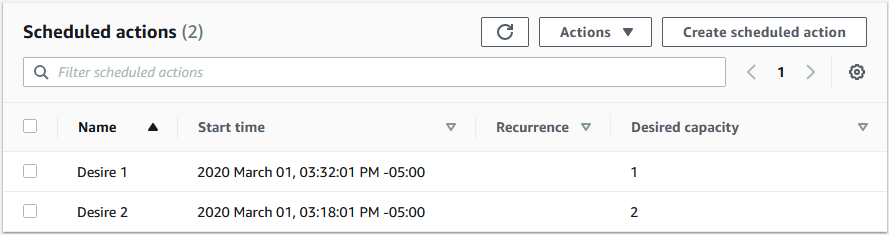
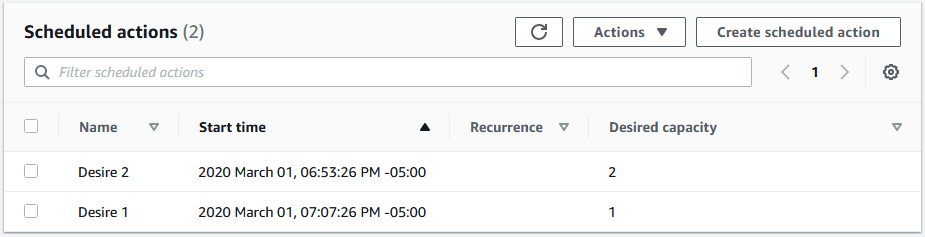
Refactor for SNS

diff --git a/content/posts/lambda-update-ami.md b/content/posts/lambda-update-ami.md
@@ -7,17 +7,15 @@ imageFluid:  "../images/vinyl-jukebox.jpg"
 tags: ["AWS", "DevOps", "Python"]
 ---
 
-Are you tired of manually updating your EC2 launch templates and auto-scaling groups?
+Tired of manually updating your EC2 launch templates and auto-scaling groups?
 
-I run all of my applications in containers with ECS. If you're familiar with ECS, you know that AWS frequently updates it's ECS-Optimized AMI. The updates contain all kinds of goodies, such as new versions of the ECS Agent, kernel updates, security patches, and other miscellaneous fixes. I want to update all the things, so how do we accomplish this with automation? One way is with Python and AWS Lambda!
+I run all of my applications in containers on Amazon's Elastic Container Service (ECS). If you're familiar with ECS, you know that AWS frequently updates it's ECS-Optimized AMI for EC2. The updates contain all kinds of goodies, such as new versions of the ECS Agent, kernel updates, security patches, and other miscellaneous fixes. Since we want to update all the things, how do we accomplish it with automation? One way is with Python and AWS Lambda!
 
 ## IAM role for Lambda
 
-As usual, my first step when working with Lambda is to create an IAM policy and IAM role. If I don't perform this step at the beginning, I'll inevitably find that my tests don't work and I'll start second-guessing my code. Approaching the problem with a security-first mindset also helps me think about how the pieces fit together.
+As usual, my first step when working with Lambda is to create an IAM policy and IAM role. If I don't perform this step at the beginning, I'll inevitably find that my tests don't work and I'll start second-guessing my code. Approaching the problem with a security-first mindset also helps me think about how the components fit together.
 
 Below is the IAM policy for this Lambda function. We allow getting an SSM parameter, creating and deleting EC2 launch template versions, creating auto-scaling group actions, and sending SNS notification updates.
-
-If you would like to use this policy, remember to add the full `arn` of your EC2 launch template, SNS topic, and auto-scaling group.
 
 ```json
 {
@@ -50,64 +48,46 @@ If you would like to use this policy, remember to add the full `arn` of your EC2
 }
 ```
 
+> If you would like to use this policy, remember to add the full `arn` of your EC2 launch template, SNS topic, and auto-scaling group.
+
 ## Lambda function
 
 The Lambda itself is blunt-force Python. My favorite!
 
-1. Accept a trigger from CloudWatch Events (a `cron` expression).
-2. Check the SSM parameter for the latest-and-greatest ECS-optimized AMI ID.
-3. Compare this AMI ID with the AMI ID in my ASG launch template. If the values differ, update the launch template with the new AMI ID.
-4. Set the new launch template version as the default version, delete the `$Latest -2` version and keep the `$Latest -1` so I can roll back if necessary.
-5. Create two ASG scheduled actions; one to scale-up instances with the new AMI, one to scale-down (terminate) instances with the old AMI.
-6. Publish an event to SNS, notifying me that the AMI has been updated.
-
-> For this example, imagine we have an ASG with a `min` size of 1, a `max` size of 2 and an initial `desired` size of 1.
+1. Accept a trigger from an SNS topic.
+2. Retrieve the ECS-optimized AMI ID from the SNS message data.
+3. Update the launch template with the AMI ID.
+4. Set the new launch template version as the default version.
+5. Delete the `$Latest -2` version of the launch template and keep `$Latest -1`.
+6. Create ASG scheduled actions to replace instances.
+7. Publish an SNS event notifying me that the AMI has been updated.
 
 ```python
 # lambda_function.py
 import boto3
 import os
+import json
 from datetime import datetime, timezone, timedelta
 
 
 def lambda_handler(event, context):
 
+    sns_message = json.loads(event["Records"][0]["Sns"]["Message"])
+
+    latest_ami = sns_message["ECSAmis"][0]["Regions"]["us-east-2"]["ImageId"]
+
     # Get values from Lambda environment variables.
     launch_template_id = os.environ["launch_template_id"]
-    image_id_ssm_parameter = os.environ["image_id_ssm_parameter"]
     sns_arn = os.environ["sns_arn"]
     asg_name = os.environ["asg_name"]
 
     # Create boto3 clients
-    ssm_client = boto3.client("ssm")
-    ec2_client = boto3.client("ec2")
-    asg_client = boto3.client("autoscaling")
-    sns_client = boto3.client("sns")
-
-    def get_latest_ecs_ami():
-        response = ssm_client.get_parameter(
-            Name=image_id_ssm_parameter,
-        )
-        latest_ecs_ami = response["Parameter"]["Value"]
-        print(f"Latest ECS-Optimized AMI: {latest_ecs_ami}")
-        return latest_ecs_ami
-
-    def get_current_launch_template_ami():
-        response = ec2_client.describe_launch_template_versions(
-            LaunchTemplateId=launch_template_id,
-            Versions=[
-                "$Latest",
-            ],
-        )
-        current_launch_template_ami = (
-            response["LaunchTemplateVersions"][0]
-                    ["LaunchTemplateData"]["ImageId"]
-        )
-        print(f"Current Launch Template AMI: {current_launch_template_ami}")
-        return current_launch_template_ami
+    ec2 = boto3.client("ec2")
+    asg = boto3.client("autoscaling")
+    sns = boto3.client("sns")
 
     def update_current_launch_template_ami(ami):
-        response = ec2_client.create_launch_template_version(
+        response = ec2.create_launch_template_version(
             LaunchTemplateId=launch_template_id,
             SourceVersion="$Latest",
             VersionDescription="Latest-AMI",
@@ -118,14 +98,14 @@ def lambda_handler(event, context):
         print(f"New launch template created with AMI: {ami}")
 
     def set_launch_template_default_version():
-        response = ec2_client.modify_launch_template(
+        response = ec2.modify_launch_template(
             LaunchTemplateId=launch_template_id,
             DefaultVersion="$Latest"
         )
         previous_version = str(
             int(response["LaunchTemplate"]["LatestVersionNumber"]) - 2)
 
-        response = ec2_client.delete_launch_template_versions(
+        response = ec2.delete_launch_template_versions(
             LaunchTemplateId=launch_template_id,
             Versions=[
                 previous_version,
@@ -134,7 +114,7 @@ def lambda_handler(event, context):
         print(f"Launch template {previous_version} deleted.")
 
     def create_asg_scheduled_action(start_time, desired_capacity):
-        response = asg_client.put_scheduled_update_group_action(
+        response = asg.put_scheduled_update_group_action(
             AutoScalingGroupName=asg_name,
             ScheduledActionName=f"Desire {desired_capacity}",
             StartTime=start_time,
@@ -142,42 +122,32 @@ def lambda_handler(event, context):
         )
 
     def send_sns_notification(subject, message):
-        response = sns_client.publish(
+        response = sns.publish(
             TargetArn=sns_arn,
             Message=message,
             Subject=subject,
         )
         print("Notification email sent.")
 
-    def check_amis_and_update_if_needed():
-        latest_ecs_ami = get_latest_ecs_ami()
-        current_launch_template_ami = get_current_launch_template_ami()
+    def update_launch_template_and_asg():
+        # Update template AMI and set as default
+        update_current_launch_template_ami(latest_ami)
+        set_launch_template_default_version()
 
-        if current_launch_template_ami != latest_ecs_ami:
-            # Update template AMI and set as default
-            update_current_launch_template_ami(latest_ecs_ami)
-            set_launch_template_default_version()
+        # Create future ASG actions to roll out the new AMI
+        now_utc = datetime.now(timezone.utc)
+        in_01_min = now_utc + timedelta(minutes=1)
+        in_15_min = now_utc + timedelta(minutes=15)
+        create_asg_scheduled_action(in_01_min, 2)
+        create_asg_scheduled_action(in_15_min, 1)
 
-            # Create future ASG actions to roll out the new AMI
-            now_utc = datetime.now(timezone.utc)
-            in_01_min = now_utc + timedelta(minutes=1)
-            in_15_min = now_utc + timedelta(minutes=15)
-            create_asg_scheduled_action(in_01_min, 2)
-            create_asg_scheduled_action(in_15_min, 1)
+        # Sent a notification that the update succeeded.
+        subject = "AMI updated!"
+        message = f"AMI updated! New AMI is {latest_ami}."
+        send_sns_notification(subject, message)
+        return message
 
-            # Sent a notification that the update succeeded.
-            subject = "AMI updated!"
-            message = f"AMI updated! New AMI is {latest_ecs_ami}."
-            send_sns_notification(subject, message)
-            return message
-        else:
-            subject = "AMI is current."
-            message = "AMI was not updated. AMI is current."
-            # Uncomment below to be notified every time the Lambda runs.
-            #send_sns_notification(subject, message)
-            return message
-
-    ami_status = check_amis_and_update_if_needed()
+    ami_status = update_launch_template_and_asg()
 
     # Show if AMI was updated in CloudWatch log group.
     print(ami_status)
@@ -187,22 +157,24 @@ def lambda_handler(event, context):
 
 ```
 
-If you look closely, you'll notice the Lambda setting the `desired` size to 2 and then sets it back to 1 after 15 minutes. This is enough time for the new instances to spin up, applications to reach a healthy state and the load balancer to start sending traffic to them. This ensures zero downtime.
+> For this example, imagine we have an ASG with a `min` size of 1, a `max` size of 2 and an initial `desired` size of 1.
+
+If you look closely, you'll see that our code sets the ASG `desired` instance count to 2 and then sets it back to 1 after 15 minutes. This is enough time for the new instances to spin up, applications to reach a healthy state and the load balancer to start sending traffic to them. You may have to play with this window to ensure zero downtime.
 
 ![ASG scheduled actions](../images/asg-scheduled-actions.png)
 
 > Our ASG termination policy is configured to terminate instances with the oldest launch configuration first.
 
-The trickiest bit I encountered coding this was getting the current launch template AMI. The response `dictionary` containing the template information is convoluted, so it took some time to suss out the location of `ImageId`.
+The trickiest bit I encountered coding this was getting the current launch template AMI out of the SNS message. Fortunately, it was just a matter of loading the JSON data and hunting down the key/value.
 
 ## Scheduling
 
-We configure the function to run every day on a schedule using CloudWatch. In the example below, the Lambda is run every day at 1 p.m. UTC.
+Lambdas can be triggered via SNS notifications, as is the case here. AWS publishes SNS topics with the lastest AMI information.
 
 ![Lambda template designer](../images/lambda-template-designer.png)
 
 ## Conclusion
 
-I'm enjoying using Lambdas to automate parts of my AWS infrastructure. In a lot of ways, it's easier to write automation code than relying on tools AWS may or may not have. Boto3 is powerful, and the documentation is great, unlike the standard AWS docs.
+I'm enjoying using Lambdas to automate parts of my AWS infrastructure. In a lot of ways, it's easier to write automation code than relying on tools AWS may or may not have. Boto3 is powerful, and the documentation is great, unlike many AWS docs.
 
 I hope this mini-tutorial helps some of the automation fans out there!
